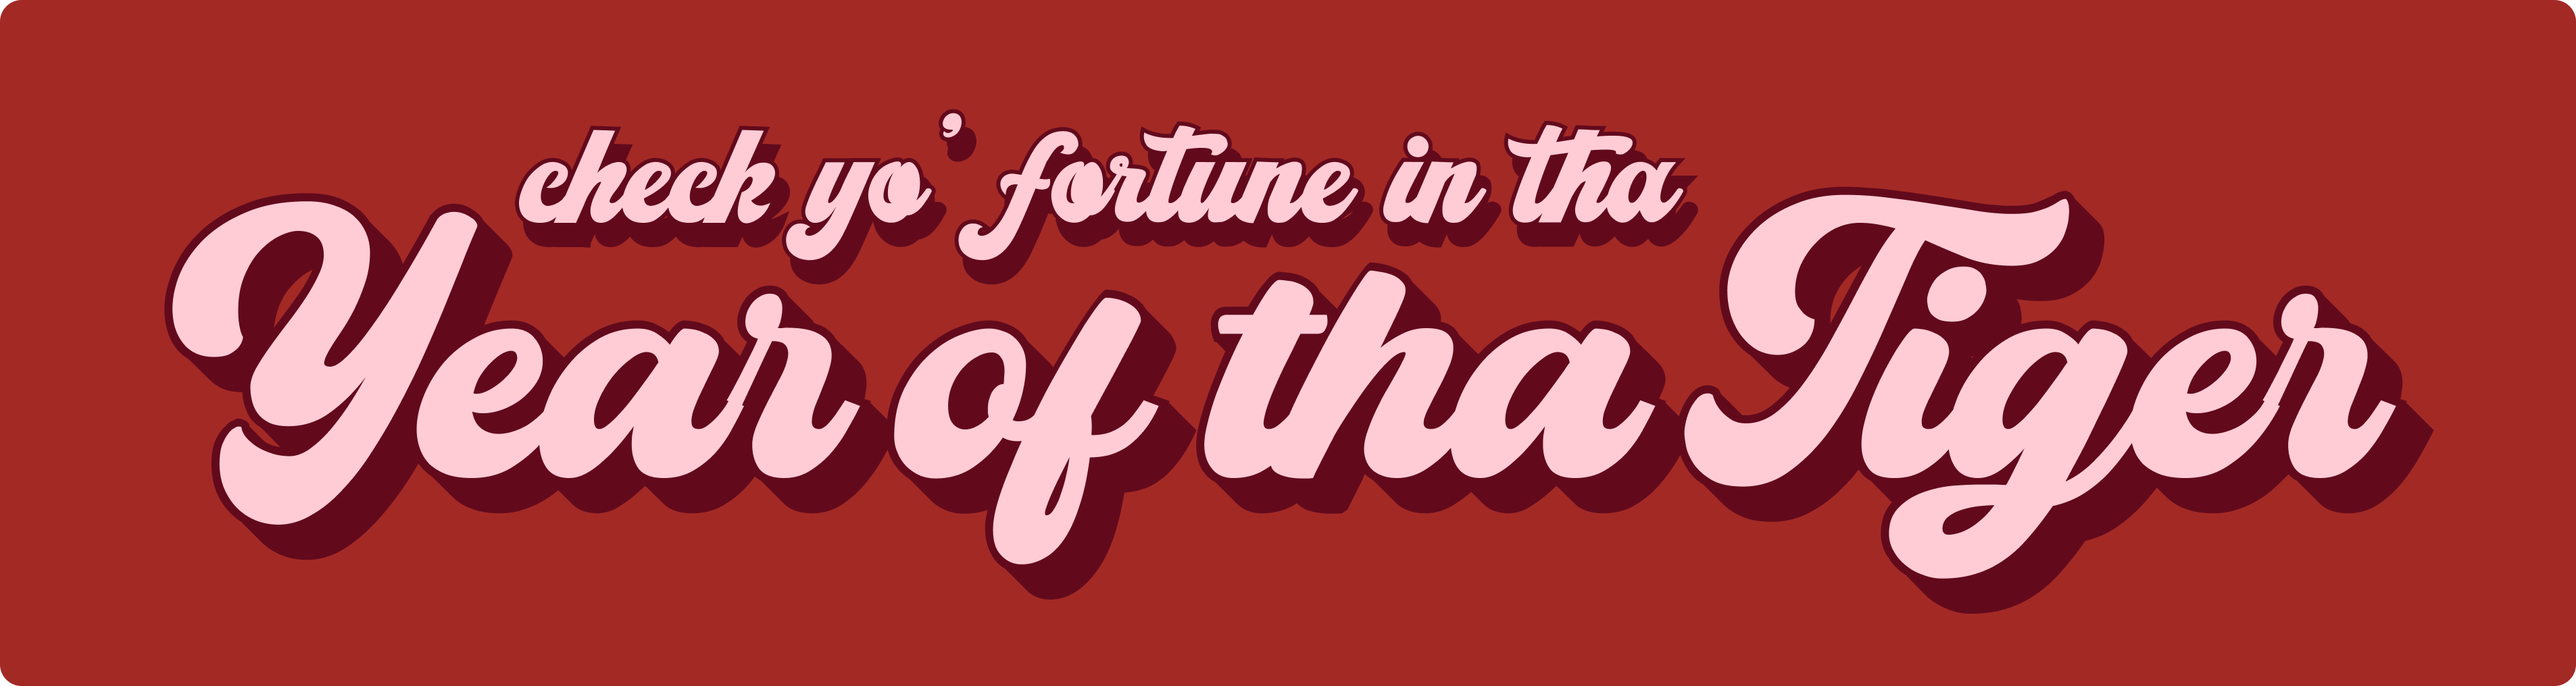
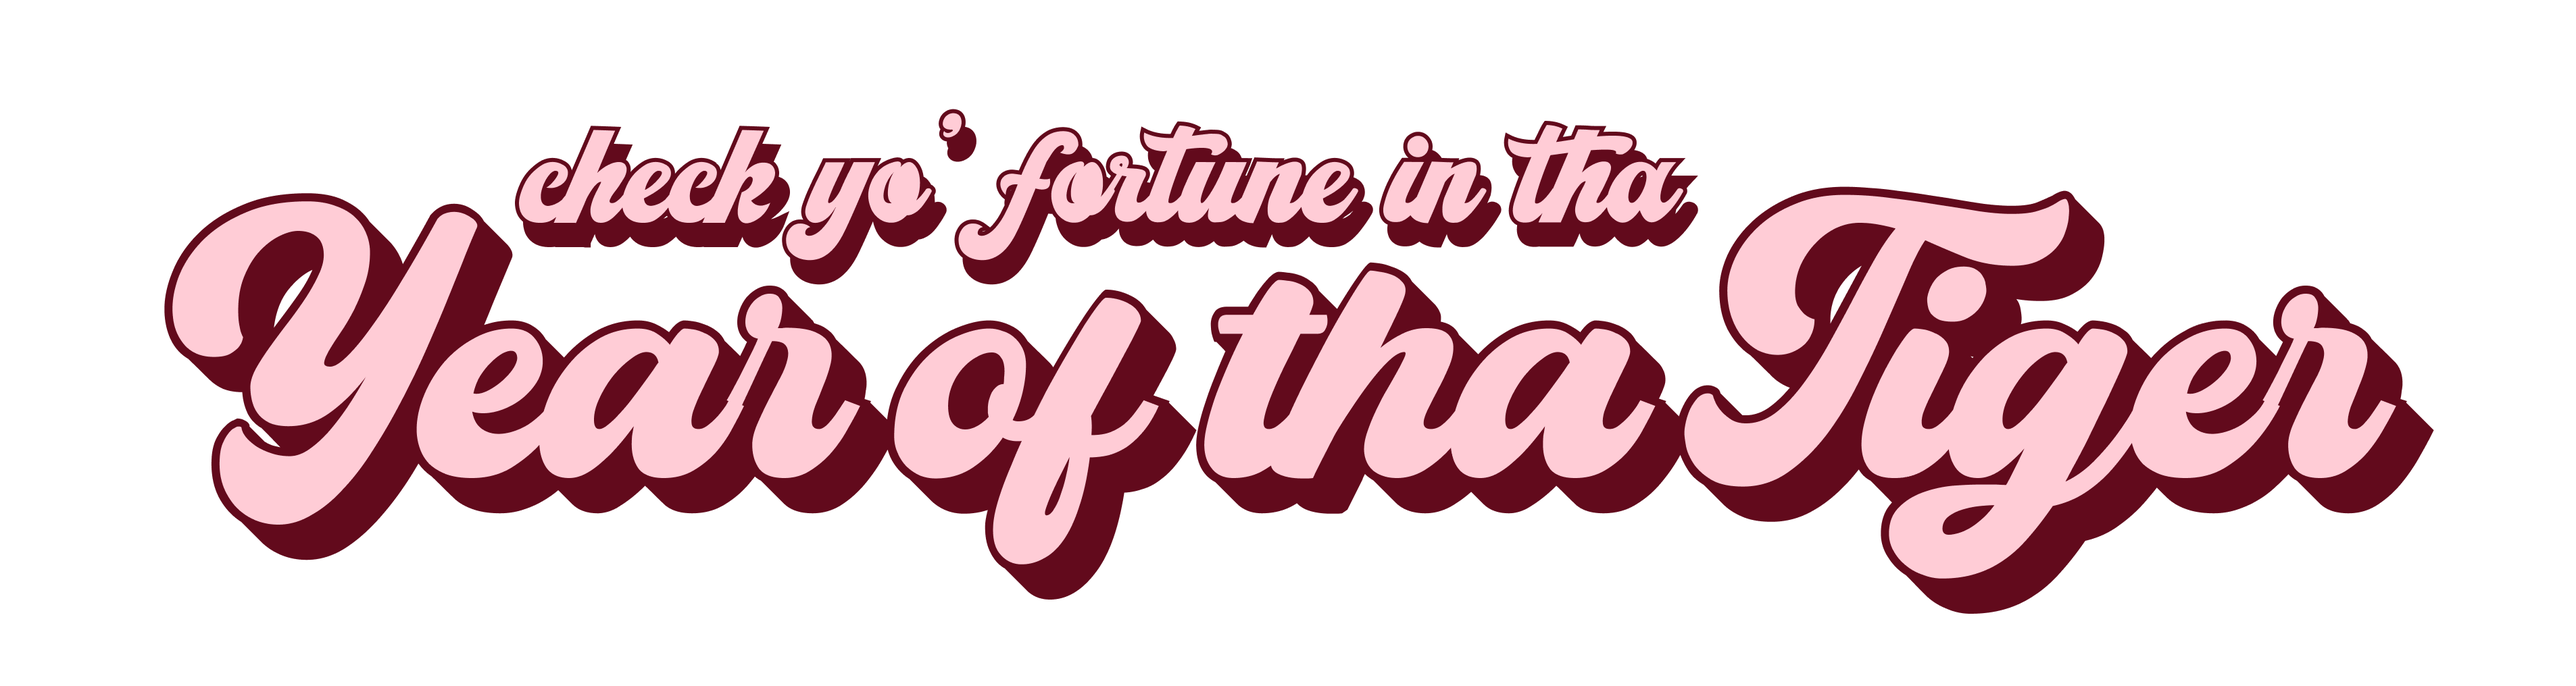
working on fortune cards

diff --git a/src/components/HyperSwiper/Deck.js b/src/components/HyperSwiper/Deck.js
@@ -131,7 +131,7 @@ const Deck = ({preload, cards, isEmpty, setIsEmpty, images, setView}) => {
                         className="uk-width-1-1 uk-display-block uk-box-shadow-medium uk-box-shadow-hover-large"
                         onClick={() => setView("fortune")}>
                         <img
-                            style={{border: "1px solid rgb(255, 204, 214)", borderRadius: "16px", cursor: "pointer"}}
+                            style={{backgroundColor: "rgb(163, 41, 37)", border: "1px solid rgb(255, 204, 214)", borderRadius: "16px", cursor: "pointer"}}
                             src={checkFortuneImage} />
                     </div>
                     <div className="uk-width-1-1 uk-light uk-text-center uk-text-small uk-margin-large-top uk-margin-medium-bottom">or</div>
